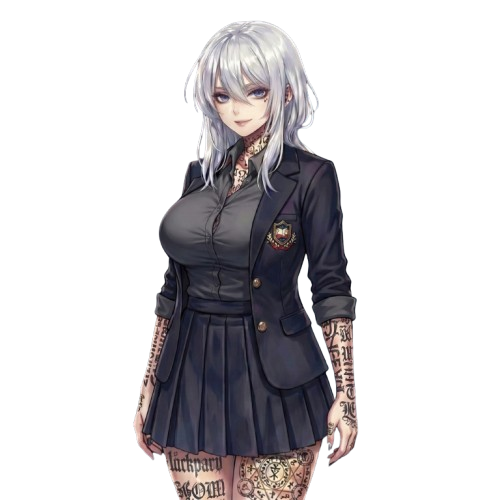
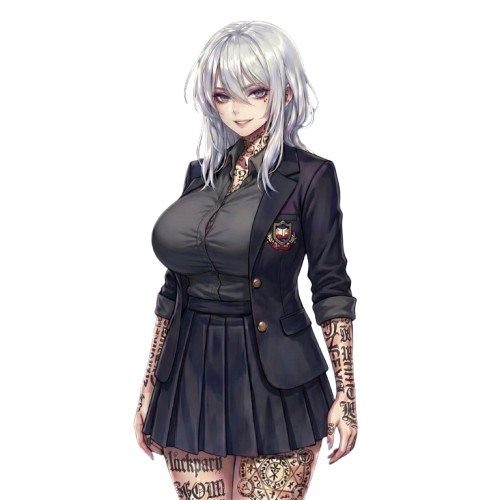
캐릭터 이미지 업데이트: 'yuna_laugh.png' 삭제 및 'yuna_smile.png'로 변경

diff --git a/assets/js/scenario/ko_day1_3_afterschool.js b/assets/js/scenario/ko_day1_3_afterschool.js
@@ -465,7 +465,7 @@ Object.assign(SCENARIO[1], {
     "after_yuna_scared_2": {
         name: "유나",
         text: "\"후훗, 역시 그렇겠지. 평범한 학생에게는 너무 무거운 이야기니까. 오늘은 이만 돌아가. 더 이상 깊이 알려고 하지 마.\"",
-        character: "assets/images/characters/yuna_nomal.png",
+        character: "assets/images/characters/yuna_smile.png",
         night: true,
         next: "after_home"
     },
@@ -491,7 +491,7 @@ Object.assign(SCENARIO[1], {
     "after_yuna_secret_fail": {
         name: "유나",
         text: "(유나가 차가운 미소를 짓는다.) \"진실이라... 후훗, 넌 아직 그 무게를 견디기엔 너무 가벼워 보여. 궁금해하는 건 자유지만, 너무 깊이 파고들진 마. 다칠 수도 있으니까.\"",
-        character: "assets/images/characters/yuna_nomal.png",
+        character: "assets/images/characters/yuna_smile.png",
         stats: { Yuna: { affinity: -20 } },
         next: "after_home"
     },

diff --git a/assets/js/scenario/en_day1_3_afterschool.js b/assets/js/scenario/en_day1_3_afterschool.js
@@ -465,7 +465,7 @@ Object.assign(SCENARIO[1], {
     "after_yuna_scared_2": {
         name: "Yuna",
         text: "\"Hehe, of course. It's a heavy burden for a normal student. Go home. Don't try to dig any deeper.\"",
-        character: "assets/images/characters/yuna_nomal.png",
+        character: "assets/images/characters/yuna_smile.png",
         night: true,
         next: "after_home"
     },
@@ -491,7 +491,7 @@ Object.assign(SCENARIO[1], {
     "after_yuna_secret_fail": {
         name: "Yuna",
         text: "(Yuna gives a cold smile.) \"The truth... Hehe, you look too light to bear its weight. It's fine to be curious, but don't dig too deep. You might get hurt.\"",
-        character: "assets/images/characters/yuna_nomal.png",
+        character: "assets/images/characters/yuna_smile.png",
         stats: { Yuna: { affinity: -20 } },
         next: "after_home"
     },

diff --git a/assets/js/main.js b/assets/js/main.js
@@ -68,7 +68,6 @@ const CHARACTER_EXPRESSIONS = {
         "normal": "assets/images/characters/yuna_nomal.png",
         "smile": "assets/images/characters/yuna_smile.png",
         "shy": "assets/images/characters/yuna_shy.png",
-        "laugh": "assets/images/characters/yuna_laugh.png",
         "angry": "assets/images/characters/yuna_angry.png",
         "sad": "assets/images/characters/yuna_sad.png"
     },
@@ -76,7 +75,6 @@ const CHARACTER_EXPRESSIONS = {
         "normal": "assets/images/characters/yuna_nomal.png",
         "smile": "assets/images/characters/yuna_smile.png",
         "shy": "assets/images/characters/yuna_shy.png",
-        "laugh": "assets/images/characters/yuna_laugh.png",
         "angry": "assets/images/characters/yuna_angry.png",
         "sad": "assets/images/characters/yuna_sad.png"
     },

diff --git a/assets/js/scenario/ko_day1_2_lunch.js b/assets/js/scenario/ko_day1_2_lunch.js
@@ -469,6 +469,7 @@ Object.assign(SCENARIO[1], {
     "yuna_intro_2": {
         name: "유나",
         text: "\"{name}... 후훗, 좋은 이름이네. 이 학교... 겉보기와는 많이 다르거든. 너한테서도.. 왠지 낯익은 분위기가 느껴져.\"",
+        character: "assets/images/characters/yuna_smile.png",
         setFlag: "metYuna",
         next: "yuna_free_talk"
     },

diff --git a/assets/js/scenario/en_day1_2_lunch.js b/assets/js/scenario/en_day1_2_lunch.js
@@ -455,6 +455,7 @@ Object.assign(SCENARIO[1], {
     "yuna_intro_2": {
         name: "Yuna",
         text: "\"{name}... Hehe, that's a nice name. This school... is very different from how it looks. From you... somehow I feel a familiar atmosphere.\"",
+        character: "assets/images/characters/yuna_smile.png",
         setFlag: "metYuna",
         next: "yuna_free_talk"
     },
